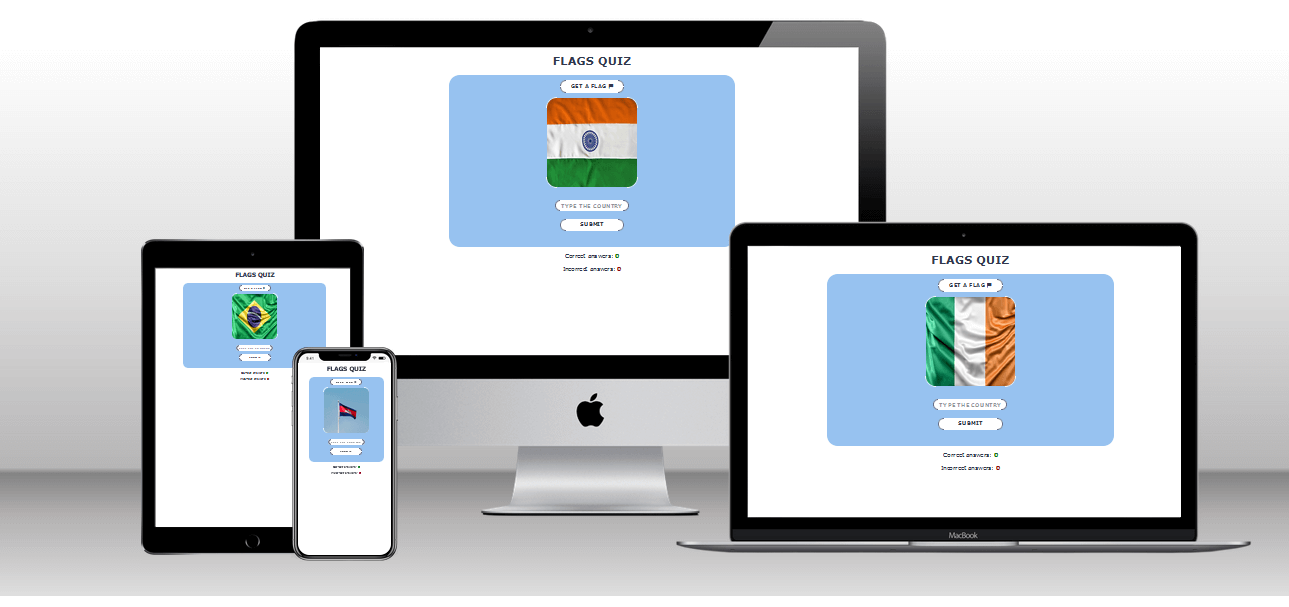
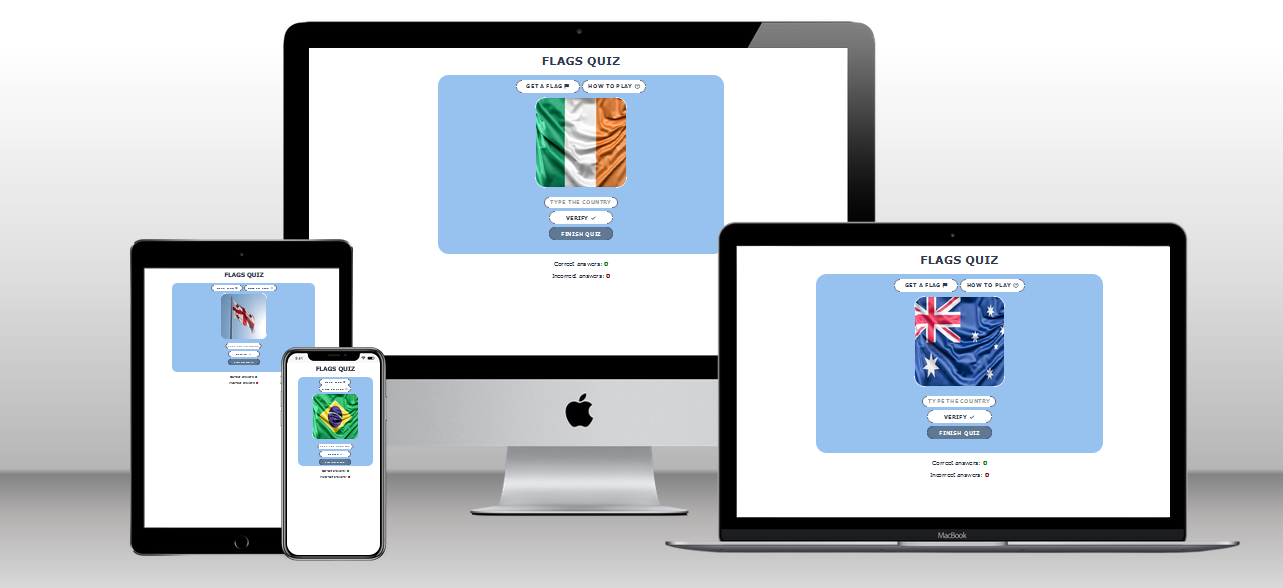
Update README

Changed region(s): [[0.0, 0.0306, 1.0, 1.0]]

diff --git a/index.html b/index.html
@@ -31,11 +31,11 @@
                         <ol>
                             <li>Click on the button "GET A FLAG <i class="fa-solid fa-flag"></i>" 
                             or simply tap on the photo of a flag to get a new flag.</li>
-                            <br>
+                        
                             <li>Type the name of the country you think this flag belongs to.</li>
-                            <br>
+                        
                             <li>Click on "Verify <i class="fa-solid fa-check"></i>" button.</li>
-                            <br>
+                        
                             <li>If you got it right, you'll get a message and your score will increase.</li>  
                         </ol>  
             </div>
@@ -66,34 +66,6 @@
         <p class="scores">Incorrect answers: <span id="incorrect">  0</span></p>
     </div>
    
-<!--
-    Ireland castle by DejaVu Designs on Freepik
-    Irish flag by www.slon.pics on Freepik
-    Ukrainian flag on Freepik
-    Spain by Biel Morro on Unsplash
-    Spanish flag Photo by Max Harlynking on Unsplash
-    Canadian flag Photo by Praveen Kumar Nandagiri on Unsplash 
-    Canada Photo by John Lee on Unsplash
-    Germany Photo by Roman Kraft on Unsplash
-    German flag Photo by Mark König on Unsplash
-    Japan Photo by Tianshu Liu on Unsplash
-    Japan flag Photo by Markus Winkler on Unsplash
-    Morocco Photo by Kyriacos Georgiou on Unsplash
-    Moroccan flag Photo by Alexander Schimmeck on Unsplash 
-    France flag Image by jannoon028 on Freepik
-    Brazil flag Photo by www.slon.pics on Freepik
-    Australia Photo by Caleb Russell on Unsplash
-    France Photo by Anthony DELANOIX on Unsplash
-    Germany Photo by Rachel Davis on Unsplash
-    Brazil Photo by Raphael Nogueira on Unsplash
-    Ukraine Photo by Gleb Albovsky on Unsplash
-    Croatia flag Photo by Arcode ACD on Unsplash 
-    India flag Photo by Onkarphoto on Unsplash
-    Argentina flag Photo by Angelica Reyes on UnsplashGeorgia flag 
-    Georgia flag Photo by Zura Narimanishvili on Unsplash
-    Cambodia flag Photo by aboodi vesakaran on Unsplash
-
--->
     <script src="assets/js/script.js"></script>
     <script src="https://kit.fontawesome.com/90849b1530.js" crossorigin="anonymous"></script>  
 </body>

diff --git a/README.md b/README.md
@@ -14,12 +14,23 @@ Flags Quiz is a game to help people learn flags of different countries. This gam
 
 <img src="assets/images/header.png" alt="Flags quiz header">
 
+* And on mobile screens it looks like this:
+
+<img src="assets/images/mobile-header.png" alt="Flags quiz header on mobiles">
+
 ### The quiz game area
-* The game gives instructions: 1) click the button "Get a flag" 2) type an answer in the input "Type the country" 3) click the button "Verify" to check the answer.
+* There is a button "How to play" which displays a pop-up with instructions: 1) click the button "Get a flag" 2) type an answer in the input "Type the country" 3) click the button "Verify" to check the answer.
+<img src="assets/images/mobile-modal.png" alt="Flags quiz game modal on mobiles">
+
 * There's also an opportunity to get a new flag image by clicking on the image itself, it can be handy for mobile users.
 * A user can use any type of case for the input, all variants will be scored as correct (e.g. Canada, canada or CANADA).
 
 <img src="assets/images/game-area.png" alt="Flags quiz game area">
+
+* And on mobile screens it looks like this:
+
+<img src="assets/images/mobile-game-area.png" alt="Flags quiz game area on mobiles">
+
 
 ### The quiz results
 * When users click on the button "Get a flag" or tap on the image they get a new flag image shown randomly by JavaScript. 
@@ -45,7 +56,8 @@ Flags Quiz is a game to help people learn flags of different countries. This gam
   
 #### Smartphones: 
 * Pixel 4a
-* Xiomi Redmi 8.
+* Xiomi Redmi 8
+* iPhone 12
 
 #### Responsiveness was also tested via Developers tools for:
 * iPhone 12 Pro
@@ -54,7 +66,24 @@ Flags Quiz is a game to help people learn flags of different countries. This gam
 * iPhone SE 2nd gen iOS 14.6
 * Samsung Gallaxy A51/71
 
-#### I confirmed that the quiz results are always correct. I confirmed that all buttons and the input are clickable.
+#### Manual testing
+* I confirmed that the quiz results are always correct. I confirmed that all buttons and the input are clickable.
+* Java Script code prevents submitting empty input. A pop-up appears with a request to type a country name.
+<img src="assets/images/empty.png" alt="Flags Quiz test1">
+
+* The quiz accepts answers typed in any case (e.g. Ireland, ireland, IRELAND) as correct, shows an alert "Well done!" and increments a new score.
+
+<img src="assets/images/correct.png" alt="Flags Quiz test2">
+
+* If the answer is incorrect, users see an alert with the correct answer and a number of wrong answers increases.
+
+<img src="assets/images/incorrect.png" alt="Flags Quiz test3">
+<img src="assets/images/increment-score.png" alt="Flags Quiz score">
+
+* If users want to finish the quiz, they should click on "Finish quiz" button. When the button is clicked a modal appeares with the score of correct answers. And the score resets.
+
+<img src="assets/images/finish.png" alt="Flags Quiz test4">
+
 
 ### Validator Testing
 * HTML: No errors were shown when passing through the official W3C HTML validator.
@@ -64,15 +93,24 @@ Flags Quiz is a game to help people learn flags of different countries. This gam
 
 <img src="assets/images/css-check.png" alt="CSS Flags quiz validation">
 
+* JS: 21 warning were found when passing through the JSHint validator about let variable.
+
+<img src="assets/images/js-hint.png" alt="JS Flags quiz validation">
+<img src="assets/images/js-hint1.png" alt="JS Flags quiz validation part 2">
+
 * Lighthouse testing shows such results:
 
 <img src="assets/images/lighthouse.png" alt="Lighthouse testing results of Flags quiz">
+
+### Bugs
+On some mobile devices a space was added automatically to the name of the country which resulted in incrementing wrong answer. To fix this problem I used .trim() method. Now spaces don't cause any issues.
 
 ### Unfixed Bugs
 No unfixed bugs.
 
 ## Deployment
 The site was created using Gitpod and pushed to GitHub to a remote repository.
+
 #### The site was deployed to GitHub pages. The steps to deploy are as follows: 
 * In the GitHub repository, navigate to the Settings tab.
 * From the menu on the left, select Pages.
@@ -88,7 +126,8 @@ The site was created using Gitpod and pushed to GitHub to a remote repository.
 * All icons were taken from Font Awesome.
 
 ### Media
-* The photos for the quiz were taken from free Internet resources (Unsplash and Freepik websites):
+The photos for the quiz were taken from free Internet resources (Unsplash and Freepik websites):
+
 * Irish flag by www.slon.pics on Freepik
 * Ukrainian flag on Freepik
 * Spanish flag Photo by Max Harlynking on Unsplash
